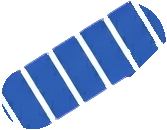
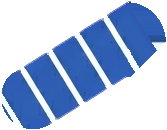
Nắp vai lấy hoa văn tay áo: mỗi điểm của nắp đi dọc hướng sọc tay áo (vuông góc trục tay) tới điểm tay áo gần nhất có màu chính, thay vì chép ngực áo, nên Leo hết "mảng ngực xoay theo tay" khi dang và giơ tay; lệch màu tư thế đứng Leo trực diện 0,43 % (dưới 1 %); soi bảng vai và nách trực diện + 3/4

Changed region(s): [[0.7784, 0.0, 1.0, 0.4], [0.7784, 0.4923, 0.8084, 0.5231], [0.7485, 0.4615, 0.7784, 0.4923]]

diff --git a/tools/src/main/kotlin/com/example/storyrig/tools/RefCut.kt b/tools/src/main/kotlin/com/example/storyrig/tools/RefCut.kt
@@ -111,10 +111,14 @@ private fun jointOn(s: Seg, towardX: Float, towardY: Float): Joint {
  * armpit up the cut) the cap is the disc cut by a chord from the cut's armpit end to the cap's tip: its top half
  * covers the shoulder line when the arm hangs, and the arm's underside runs straight from the armpit to the tip when
  * it is raised. A full bottom half sticks out under the armpit as a lump of shirt; a plain top half leaves a step.
+ * With [axis] (a shoulder: the arm's direction, shoulder to elbow) the cap takes the sleeve's pattern instead of the
+ * reference's ([sleeveColour]): the reference there is the chest, whose stripes would turn with the arm.
  */
-private fun capInto(p: Piece, j: Joint, ref: Img, keep: Pt? = null): Piece {
+private fun capInto(p: Piece, j: Joint, ref: Img, keep: Pt? = null, axis: Pt? = null): Piece {
     val r = j.radius
     val band = bandColours(p, j, -r, -2f)
+    // The sleeve's main colours, past the cut line's shared pixels and the inside of the sleeve next to it.
+    val sleeve = if (axis == null) band else bandColours(p, j, -2 * r, -4f)
     val x0 = min(p.ox, (j.x - r).toInt() - 2); val y0 = min(p.oy, (j.y - r).toInt() - 2)
     val x1 = max(p.ox + p.w, (j.x + r).toInt() + 3); val y1 = max(p.oy + p.h, (j.y + r).toInt() + 3)
     val out = Img(x1 - x0, y1 - y0)
@@ -134,9 +138,29 @@ private fun capInto(p: Piece, j: Joint, ref: Img, keep: Pt? = null): Piece {
         // Colour of the piece just before the cut on this line.
         val sx = (fx - (t + 2f) * j.ux).roundToInt(); val sy = (fy - (t + 2f) * j.uy).roundToInt()
         val c = p.colourAt(sx, sy)
-        if (a(c) > 127) out[x - x0, y - y0] = capColour(ref, x, y, band, c or (0xFF shl 24))
+        if (a(c) <= 127) continue
+        out[x - x0, y - y0] = if (axis != null) sleeveColour(p, fx, fy, axis, sleeve, 2 * r) ?: (c or (0xFF shl 24))
+        else capColour(ref, x, y, band, c or (0xFF shl 24))
     }
     return Piece(out, x0, y0).trimmed()
+}
+
+/**
+ * Colour of a shoulder cap pixel at (fx, fy): the nearest pixel of the sleeve [p] along its stripes (across the arm's
+ * [axis], either way, at most [reach] px) whose colour is one of the sleeve's [main] colours, so stripes run on into
+ * the cap. Null when neither way reaches the sleeve (the cap's tip past the arm's top).
+ */
+private fun sleeveColour(p: Piece, fx: Float, fy: Float, axis: Pt, main: List<Int>, reach: Float): Int? {
+    val nx = -axis.y; val ny = axis.x
+    var t = 1f
+    while (t <= reach) {
+        for (s in intArrayOf(1, -1)) {
+            val c = p.colourAt((fx + s * t * nx - .5f).roundToInt(), (fy + s * t * ny - .5f).roundToInt())
+            if (a(c) > 200 && main.any { colourDist(c, it) <= SAME_GARMENT / 2 }) return c or (0xFF shl 24)
+        }
+        t += .5f
+    }
+    return null
 }
 
 /**
@@ -584,11 +608,13 @@ internal fun cutWith(dir: File, outDir: File, previewDir: File, S: RefSpec) {
         var arm = pieceOf(img, mask)
         // Round shoulder end under the shirt: the cut runs SHOULDER_MARGIN past the arm's top, the cap must not, or it
         // pokes above the shoulder line once the arm hangs down. Cut by a chord towards the armpit (capInto): the
-        // arm's underside then runs straight into the shirt's side when it is raised.
+        // arm's underside then runs straight into the shirt's side when it is raised. Its colours follow the sleeve's
+        // stripes, not the chest under it.
         val up = hypot(sh.x1 - sh.x2, sh.y1 - sh.y2).let { l -> Pt((sh.x1 - sh.x2) / l, (sh.y1 - sh.y2) / l) }
         val shJoint = jointOn(sh, S.seedTorso.x, S.seedTorso.y).let { Joint(it.x, it.y, it.ux, it.uy, it.radius - SHOULDER_MARGIN) }
-        arm = capInto(arm, shJoint, img, keep = up)
         val shoulder = mid(sh)
+        val axis = hypot(el.x - shoulder.x, el.y - shoulder.y).let { l -> Pt((el.x - shoulder.x) / l, (el.y - shoulder.y) / l) }
+        arm = capInto(arm, shJoint, img, keep = up, axis = axis)
         val hang = Pt(sh.x1 + (sh.x2 - sh.x1) * SHOULDER_HANG_PIVOT, sh.y1 + (sh.y2 - sh.y1) * SHOULDER_HANG_PIVOT)
         val elbow = jointAcross(arm, el.x, el.y, el.x - shoulder.x, el.y - shoulder.y)
         val (upper, rest) = cutAt(arm, elbow, ref = img)

diff --git a/ART_PIPELINE.md b/ART_PIPELINE.md
@@ -116,6 +116,7 @@ Dùng cho 5 bộ hình hiện có, cho các góc chưa có bộ phận rời (3/
 - **Mép thân dọc đường cắt vai** (`cleanShoulderSide`): đường hông áo dưới nách được kéo tiếp lên vai bằng màu áo (tối đa 12 px), và điểm ảnh lạc màu trong khoảng ±4 px quanh đường cắt được tô lại. Như vậy chỗ thân lộ ra khi tay giơ không còn khấc hay lấm tấm. Mặt trong ống tay vẫn chuyển sang tay, còn thân giữ một bản màu áo trơn ở dưới.
 - **Vai cứng trong mesh:** lưới thân không lấy trọng số theo xương vai, và cánh tay không neo vào thân. Nếu có, khi giơ tay cao (chữ V, khoảng 150°) vải hông áo bị kéo rách thành vạt.
 - **Đầu cánh tay:** đĩa cắt theo dây cung từ đầu nách của đường cắt lên mép đĩa: nửa trên che đường vai khi tay buông, mặt dưới tay chạy thẳng từ nách khi giơ. Bán kính trừ `SHOULDER_MARGIN`.
+- **Màu nắp vai** (`sleeveColour`): mỗi điểm của nắp đi dọc hướng sọc tay áo (vuông góc trục tay, cả hai phía) tới điểm tay áo gần nhất có màu chính của tay áo, rồi lấy màu đó. Không chép điểm ảnh của hình gốc ở chỗ nắp, vì chỗ đó là ngực áo: sọc ngực sẽ xoay theo tay thành một mảng lệch (lỗi của Leo). Ở tư thế đứng, nắp phủ đầu sọc ngực như một đường may vai; lệch màu với hình gốc vẫn dưới 1 % (Leo trực diện 0,43 %).
 - **Mặt trong ống tay:** điểm ảnh trên thân sát đường cắt vai, có màu là sắc sẫm hơn của màu áo (mặt trong ống tay, đầu viền tay áo chạy vào nách), được chuyển sang tay. Khác tông màu (quai balo, hình in) thì giữ trên thân.
 - **Thân:** chỉ tô `ARM_FILL` (2 px) sau tay để khử răng cưa. Tô sâu hơn sẽ lộ ra như một cục áo khi giơ tay.
 - **Trục tay:** khi trục dò từ mẫu lệch quá 15°, lấy trục theo chính điểm ảnh cánh tay (PCA).
@@ -154,7 +155,7 @@ Plan đầy đủ: bộ kit 2 tờ (mục 2), lắp rig từ bộ phận rời (
 | Bước | Việc | Trạng thái |
 | --- | --- | --- |
 | — | Vai và nách khi cắt hình phẳng: mặt trong ống tay sang tay, nắp theo dây cung, khớp vai trượt, nhún vai, vai cứng trong mesh, làm sạch mép thân, `pose_sheet.sh` | xong 2026-10-18 (`e677b7f`) |
-| 0 | Giữ app dùng được trong lúc làm kit. Nắp vai lấy hoa văn tay áo: đi dọc hướng sọc tay áo (vuông góc trục tay) tới điểm tay áo gần nhất có màu chính, thay vì chép ngực áo. Sửa lỗi Leo "mảng ngực xoay theo tay". Nếu Leo lệch màu ở tư thế đứng vượt 1 %, loại điểm thuộc nắp vai khỏi phép so màu và ghi lý do. Soi `pose_sheet.sh` trực diện và 3/4, so với `e677b7f` | chưa |
+| 0 | Giữ app dùng được trong lúc làm kit. Nắp vai lấy hoa văn tay áo: đi dọc hướng sọc tay áo (vuông góc trục tay) tới điểm tay áo gần nhất có màu chính, thay vì chép ngực áo. Sửa lỗi Leo "mảng ngực xoay theo tay". Nếu Leo lệch màu ở tư thế đứng vượt 1 %, loại điểm thuộc nắp vai khỏi phép so màu và ghi lý do. Soi `pose_sheet.sh` trực diện và 3/4, so với `e677b7f` | xong 2026-10-18: lệch màu tư thế đứng Leo trực diện 0,43 %, 3/4 0,24 % (dưới 1 %, không cần loại nắp khỏi phép so); selftest 15/15, `motionCheck` đạt. Còn: vài đốm trắng nhỏ ở góc vai Leo (đầu sọc tay áo kéo vào nắp); tay xa của Bo trực diện tô bóng sẫm từ hình gốc, chờ bộ kit mới |
 | 1 | 2 tờ mẫu (`rig_body.png`, `rig_face_hands.png`, kèm `.csv` ô) trong `MannequinSheet.kt`. 2 prompt (`body_sheet.txt`, `face_hands_sheet.txt`) nói rõ phần phải vẽ dư, 12 miệng, bàn tay đếm số | chưa |
 | 2 | `splitsheet` và `sheetcheck` (10 mục ở mục 3), thử trên `turnaround_v1.jpg` | chưa |
 | 3 | Gemini cho **Kai**: 2 lượt, 4K, **người dùng duyệt riêng**. Chạy `sheetcheck`, báo bằng lời thường kèm ảnh khoanh lỗi | chờ duyệt |
